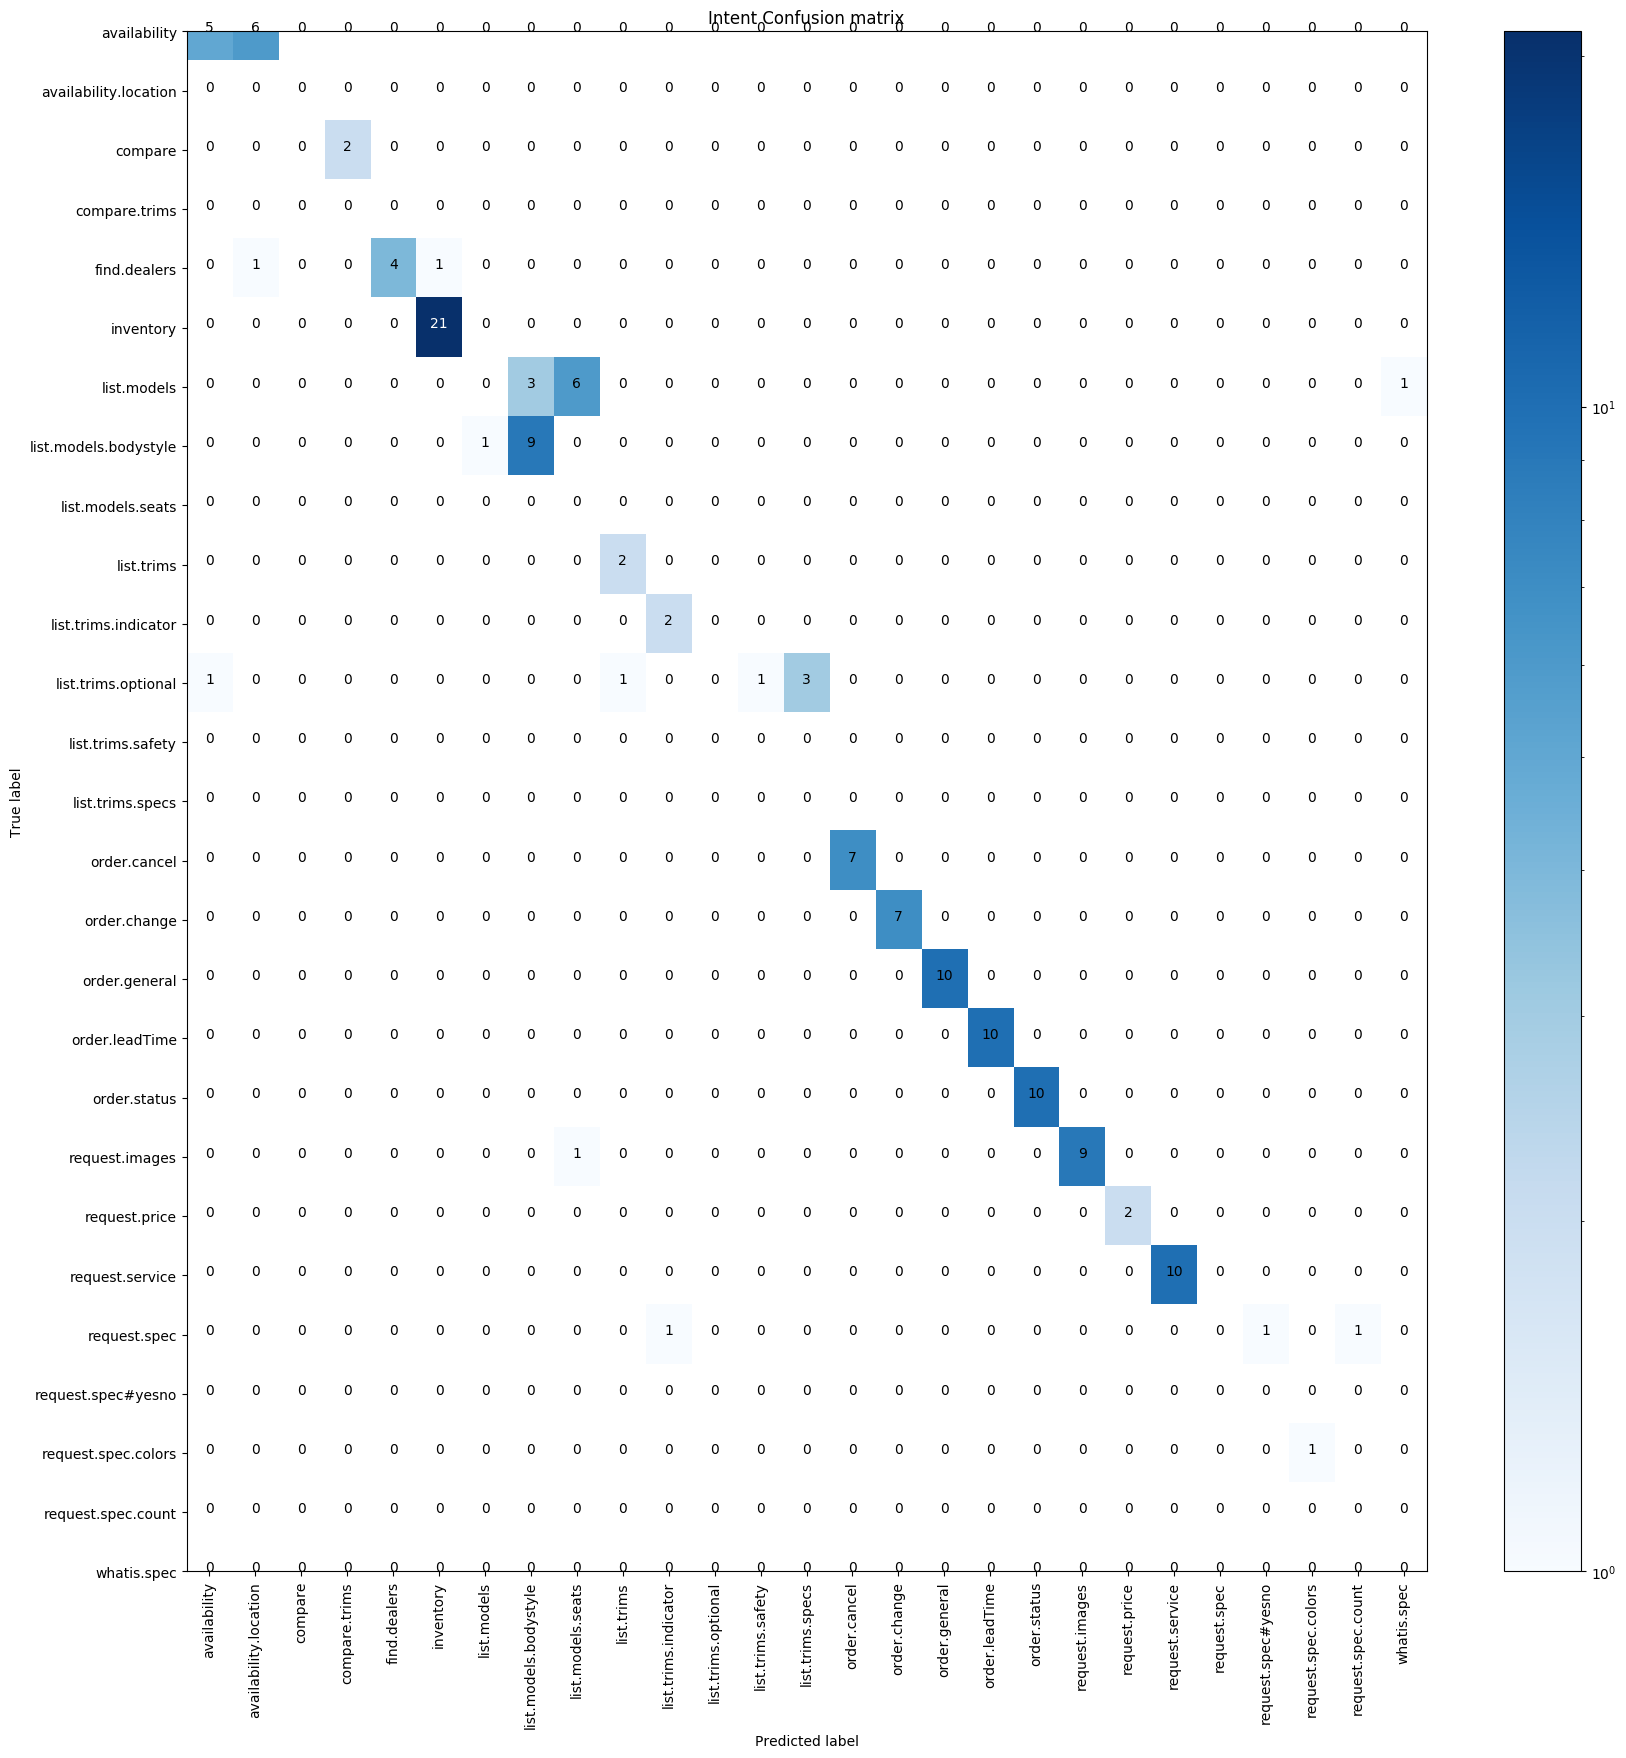
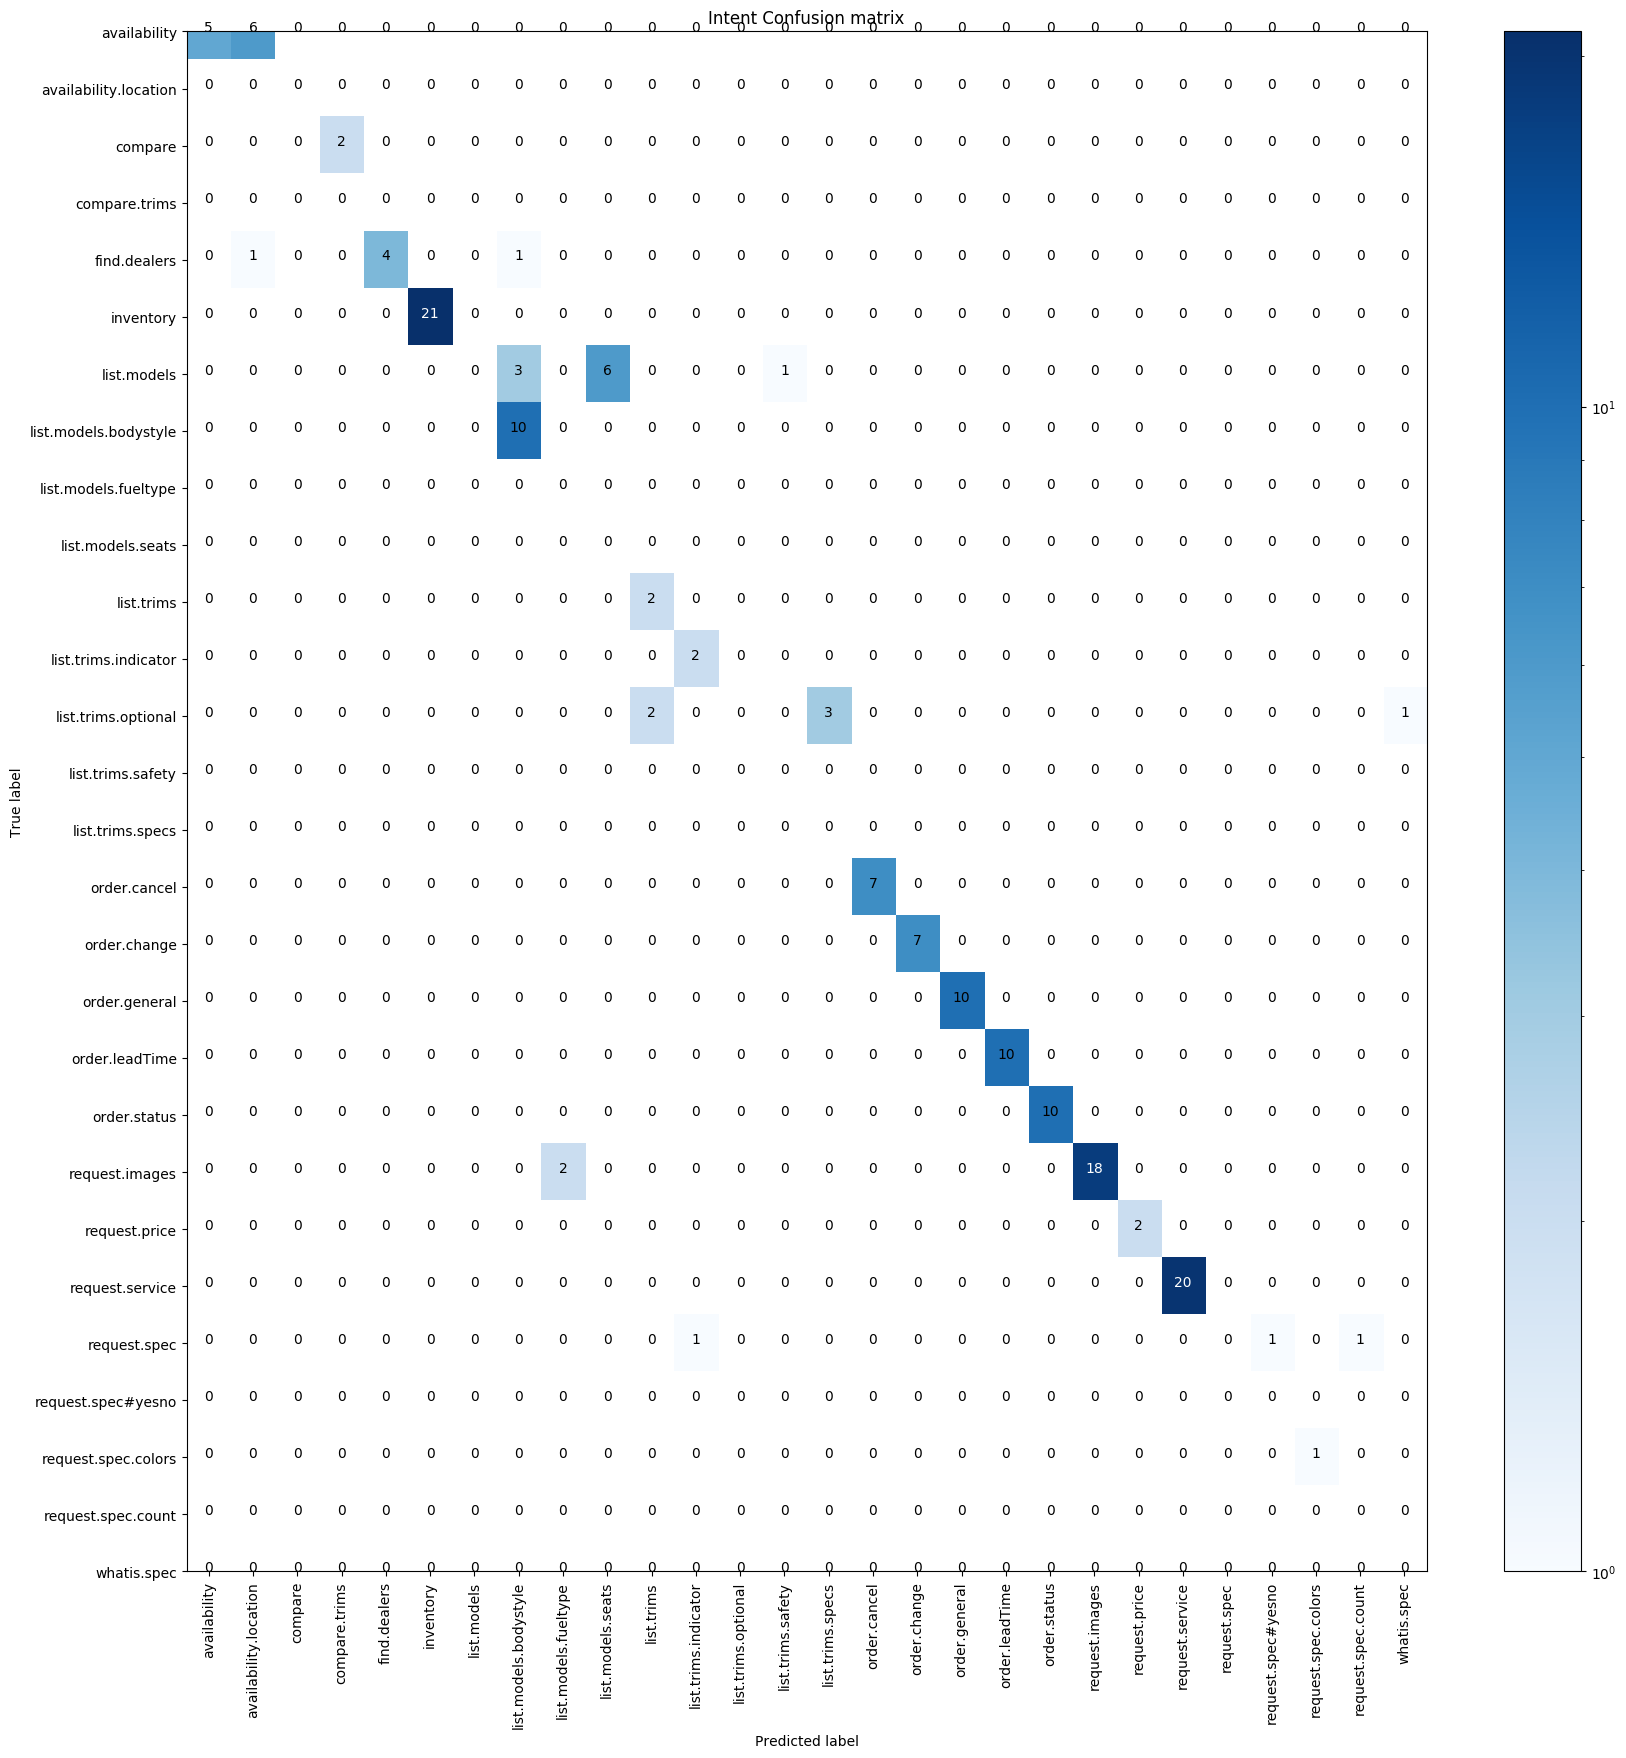
added orders intents, and ground truth, etc

diff --git a/Readme.md b/Readme.md
@@ -55,7 +55,9 @@ Train the model `rasa train nlu --config configs/en/rasa_config.yml --nlu ./core
 
 Add proposed phrases with their corresponding intents and entities under `data/ground_truth_data_en.json`
 
-Test the model at the root of project directory `sh ./tests/en/test.sh`. Wrong classifications are listed in `result/intent_errors.json`
+Cross validate the model at the root of project directory `sh ./tests/en/test.sh`. Model evaluation results are listed in `result/intent_errors.json`
+
+Test the model at the root of project directory `sh ./tests/en/test-ground_truth.sh`. Wrong classifications are listed in `result/intent_errors.json`
 
 ### Enlish NLU Notes
 
